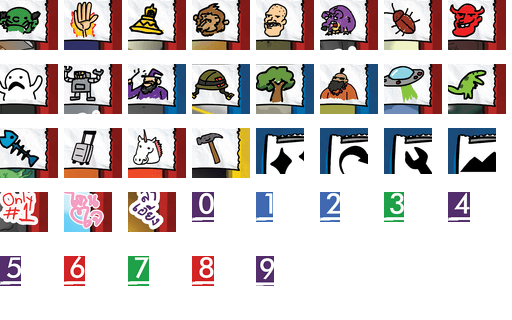
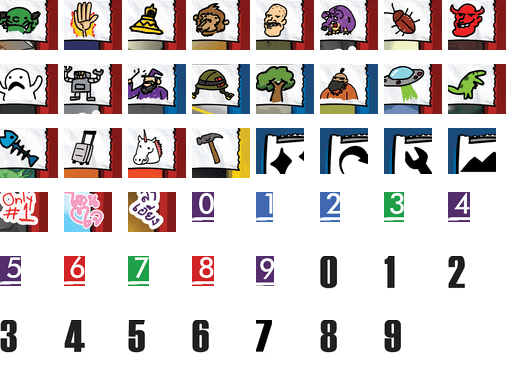
Generate powerDigit templates in build-templates.ts; tidy digit constants

diff --git a/.skill/extract-card-info/scripts/build-templates.ts b/.skill/extract-card-info/scripts/build-templates.ts
@@ -79,28 +79,39 @@ buildIconField('symbol', regions.symbol);
 buildIconField('subtype', regions.subtype ?? regions.costBox);
 buildIconField('ex', regions.ex);
 
-// Digits 0–9: crop from the cost region of an Avatar/Construct card whose cost
-// is that digit. Magic cards carry a subtype pictogram (not a digit) in the
-// COST box, so they are excluded. Among candidates (BT01 preferred) the first
-// whose cost region cleanly segments into exactly one glyph is used.
-mkdirSync(join(templatesDir, 'digit'), { recursive: true });
-for (let d = 0; d <= 9; d++) {
-  const candidates = cards
-    .filter((c) => c.cost === d && (c.type === 'Avatar' || c.type === 'Construct'))
-    .sort((a, b) => (String(a.print).startsWith('BT01') ? -1 : 1));
-  let built = false;
-  for (const card of candidates) {
-    const png = image(String(card.print));
-    if (!png) continue;
-    const segs = segmentDigits(crop(png, regions.costNum));
-    if (segs.length !== 1) continue;
-    writeFileSync(join(templatesDir, 'digit', `${d}.png`), PNG.sync.write(segs[0]));
-    crops.push({ label: `digit:${d}`, png: segs[0] });
-    built = true;
-    break;
+/**
+ * Build a 0-9 glyph set by cropping a numeric region from Avatar/Construct
+ * cards. Magic cards carry a subtype pictogram (not a digit) in the COST box,
+ * so they are excluded. Among candidates (BT01 preferred) the first whose
+ * region cleanly segments into exactly one glyph is used.
+ *
+ * @param dirName    - subdirectory under templates/ to write PNGs into
+ * @param costOrPower - card field to filter by digit value ('cost' or 'power')
+ * @param region      - image region to crop and segment
+ */
+function buildDigitField(dirName: string, costOrPower: 'cost' | 'power', region: Rect) {
+  mkdirSync(join(templatesDir, dirName), { recursive: true });
+  for (let d = 0; d <= 9; d++) {
+    const candidates = cards
+      .filter((c) => c[costOrPower] === d && (c.type === 'Avatar' || c.type === 'Construct'))
+      .sort((a, b) => (String(a.print).startsWith('BT01') ? -1 : 1));
+    let built = false;
+    for (const card of candidates) {
+      const png = image(String(card.print));
+      if (!png) continue;
+      const segs = segmentDigits(crop(png, region));
+      if (segs.length !== 1) continue;
+      writeFileSync(join(templatesDir, dirName, `${d}.png`), PNG.sync.write(segs[0]));
+      crops.push({ label: `${dirName}:${d}`, png: segs[0] });
+      built = true;
+      break;
+    }
+    if (!built) console.warn(`  no clean exemplar for ${dirName} ${d}`);
   }
-  if (!built) console.warn(`  no clean exemplar for digit ${d}`);
 }
+
+buildDigitField('digit', 'cost', regions.costNum);
+buildDigitField('powerDigit', 'power', regions.powerNum);
 
 // Contact sheet: a grid of every crop, each cell 64×64, for human review.
 const CELL = 64, COLS = 8;

diff --git a/.skill/extract-card-info/scripts/extract.ts b/.skill/extract-card-info/scripts/extract.ts
@@ -41,6 +41,7 @@ const EX_TPL = loadTemplates('ex');
 const DIGIT_TPL = loadTemplates('digit');
 const POWER_DIGIT_TPL = loadTemplates('powerDigit');
 const DIGIT_MIN_SCORE = 0.5;
+const DIGIT_MARGIN = 0.05;
 
 /**
  * Read a 1–3 digit number from a region: segment into digit columns, match
@@ -61,7 +62,7 @@ function readNumber(
   let digits = '';
   let minScore = 1;
   for (const seg of segs) {
-    const m = matchBest(seg, templates, DIGIT_MIN_SCORE, 0.05);
+    const m = matchBest(seg, templates, DIGIT_MIN_SCORE, DIGIT_MARGIN);
     digits += m.value;
     minScore = Math.min(minScore, m.score);
   }
@@ -258,7 +259,11 @@ export function extractCard(print: string): CardResult {
     const p = readNumber(png, regions.powerNum, POWER_DIGIT_TPL);
     if (p) fields.power = p;
   }
-  // customLimit — only when the override circle is present
+  // customLimit — only when the override circle is present.
+  // NOTE: the circle region yields inherently low NCC scores because its
+  // curved background produces noisy crops that don't cleanly match the
+  // white-on-dark digit templates. Consequently, customLimit confidence is
+  // essentially always 'low' even when the extracted value is correct.
   if (occluded) {
     const cl = readNumber(png, regions.circle);
     if (cl) fields.customLimit = cl;
